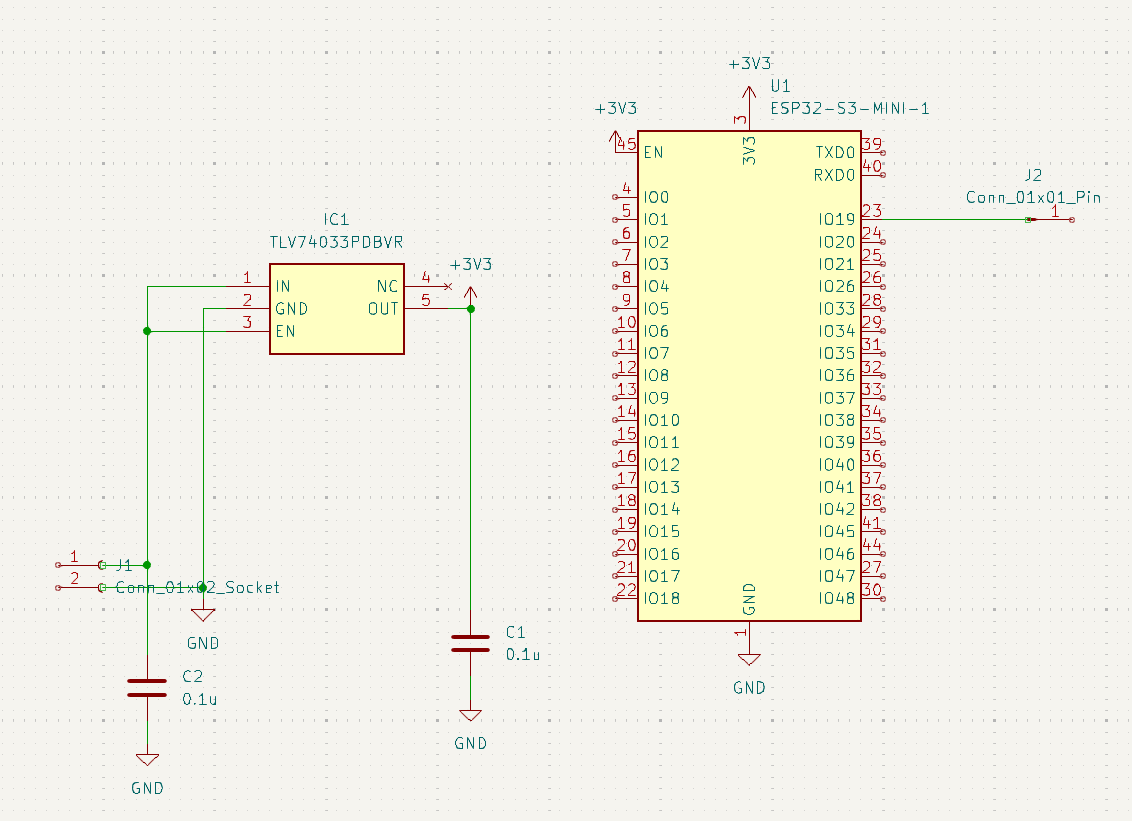
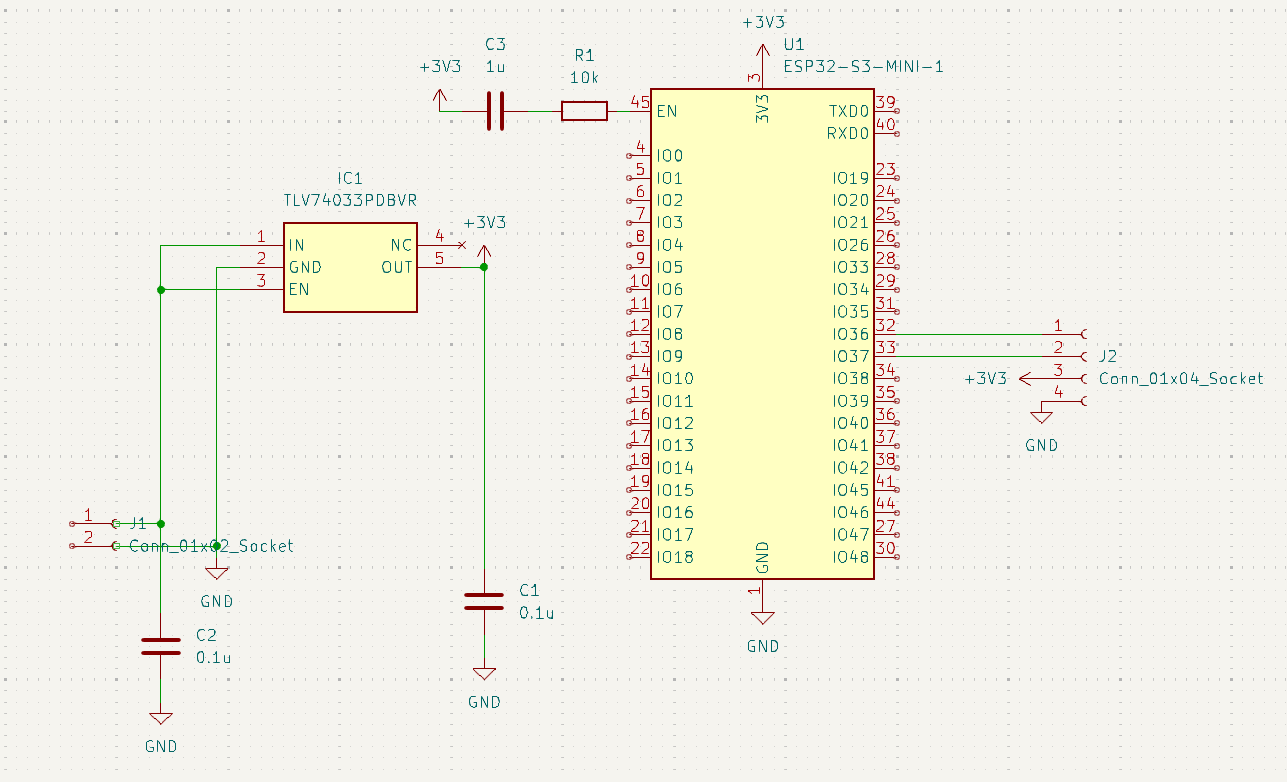
revised schematic and added layout

diff --git a/CHANGELOG.md b/CHANGELOG.md
@@ -1,16 +1,16 @@
 # CHANGELOG
 
-## April 29th, 2024
+## April 30th, 2024
 ### Contributors
 Garno Amirian
 Aidan Garamendi
 Bao Thy Nguyen
 
 ### Added
-PCB Schematic - Major technical issues led to late submission. Needed office hours on Monday to resolve and complete before class.
+Layout in pcb editor view of revised schematic
 
 ### Changed
-N/A
+Schematic to fit revisions given by peer evaluation. More pins added for output, additional safety measures added in ESP32 as specified by datasheet.
 
 ### Removed
 N/A
